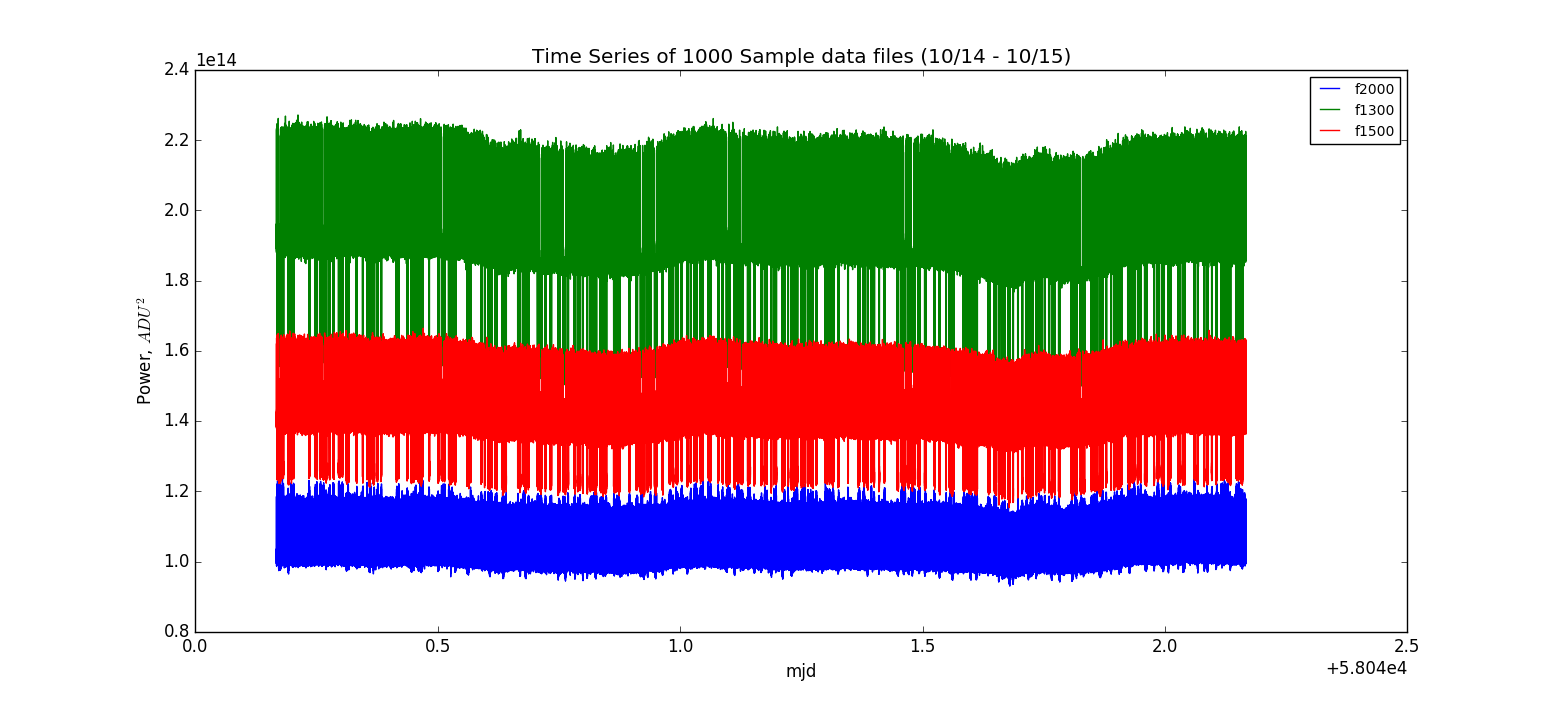
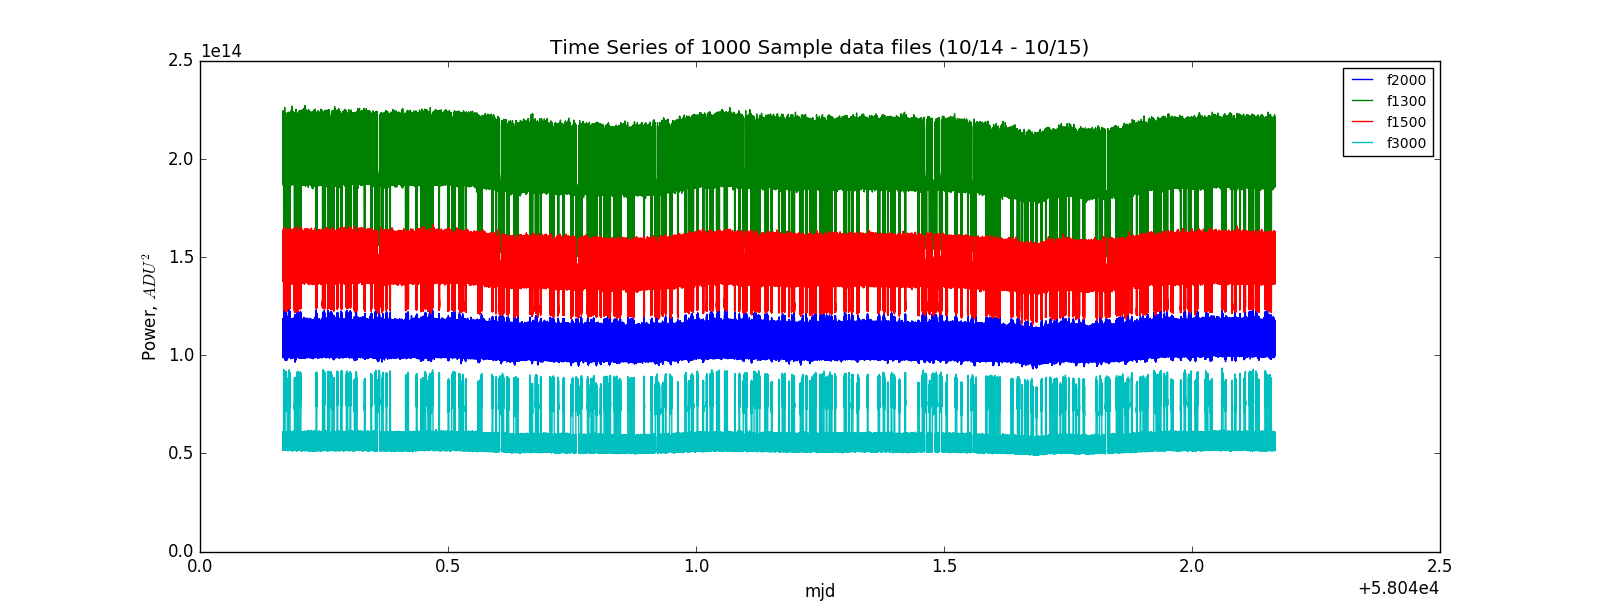
spectra added

diff --git a/logbook/postings/20171018_1000_Sample_Data/index.md b/logbook/postings/20171018_1000_Sample_Data/index.md
@@ -19,11 +19,16 @@ Noise Diode --> 23dB Atten. --> Low-Loss --> [Amp Chain] --> [Spectrometer]
 Analysis of these data files indicated slight variations in power were possible
 by restarting the daq, without changing any other parameters.
 
-### Time Series of these data:
+### Time Series:
 
 Here is a familiar style of plot of spectrometer power in a given frequency bin
-versus time. The frequency bins selected were f2000 = 1368.62MHz, and f1300 =
-1274.62MHz. Time here is specified in mjd, collected from the data files. 
+versus time. Time here is specified in mjd, collected from the data files. The
+chosen frequency bins are as follows:
+
+1) f1300 = 1274.62MHz
+2) f1500 = 1301.48MHz
+3) f2000 = 1368.62MHz 
+4) f3000 = 1502.89MHz
 
 ![timeseries](Time_Series_1014_1015.png)
 
@@ -38,34 +43,67 @@ file, so lets take a closer look at the first few data files:
 
 ![zoom](ZoomedTS.png)
 
-### Small-Scale Variations in f2000
+With the addition of the f1500 frequency bin, the correlations between files
+becomes very clear. The changes in background level in the f1300 and f1500 bins
+seem to correlate with changes in pulse height (and sometimes background level)
+in the f2000 bin. Stranger still, when we examine the f3000 bin, there is a
+strong anti-correlation to the power changes in the f1300 and f1500 bins...
 
-This plot shows the small-scale variations from the f2000 data, again from the
-beginning of the large data set shown in the first plot. It would be interesting
-to see what the spectra look like from one exposure to the next, when we witness
-the power level changing.
+This seems incredibly strange but the answer lies in the spectra.
 
-Here is the power variation in f2000, now presented with the index on the
-x-axis:
+### Impact of Power Change on Spectra:
 
-![f2000](index5000jump.png)
+Now we shall consider a region of the plot where a power change occurs from one
+file to the next. For each file I will plot the average spectrum with the diode
+off, and the average spectrum with the diode on.
 
-There is a noticable jump in power around index 5000, where the data switches
-from one file to the next. Lets examine the spectra from before and after the
-data acquisition was restarted:
+If we consider the files starting from around 0.03 on the MJD Axis, we can see a
+few power changes that will be good candidates for examining these changes.
+These correspond to the 16th through the 23rd file in our two days of data.
 
-The file before the power change is 171014_0009.data. (low background)
+The files in question are the files shown in the following time series plot,
+shown here in various colors representing each separate file, for f1300 bin:
 
-The file after the power change is 171014_0011.data. (high background)
+![candidate](TSswitching.png)
 
-We will look at the diode off and the diode on spectra for the two
-files:
+Looking at these time series curves, we can imagine the same two-state system we had
+initially suggested at the outset of these diode calibration tests. There
+appears to be a higher energy "loud state" and a lower energy "quiet state". The
+system is switching between the two for some reason.
 
-![B&A](RestartDAQChangeSpectra.png)
+When we examine what the spectra look like before and after these power
+switches, it is clear that the shape of the entire spectrum is changing! Here
+are plots of the average spectrum with the diode off, and the average spectrum
+with the diode on:
 
-There are slight changes in the spectrum between the two curves, but if we
-consider the region of the plot outside the band-pass (f~1500-1650MHz) there are
-power offsets that might indicate a change in spectrometer properties.
+![diodeoff](diodeoffspectrum.png)
+
+If you look closely, the blue, cyan, and purple spectra shown here all lie on
+essentially the same curve. The green, red, yellow, and black curves all follow
+the same line as well. And, these colors and files correpsond to the two
+different power levels observed in the time series plot!
+
+Comparing these two different spectral curves, it appears that there is a change
+in gain from one to another. (i.e. the slope of the spectrum is changing, when
+the system is in either the low or the high state. This is the reason for the
+correlation between power level changes in the f1500 bin relative to the f1300
+bin, and the anticorrelation between power changes in the f3000 bin relative to
+the f1300 bin.) This was essentially unobserved when only considering the f2000
+bin, because that appears to be the point where the changes are minimal, because
+it is near the common point of both spectra. That is also the reason why the
+f2000 and f1300 power changes appeared initially uncorrelated.
+
+We witness precisely the same bahavior in the diode on spectra:
+
+![diodeon](diodeonspectrum.png)
+
+Again, the same color curves are right on top of each other, in agreement with
+the previous plot. I think this is a good indication that the system is
+switching between two states, and the effects of this state change can be
+described by changes in two parameters:
+
+1) Gain
+2) Offset Power Level
 
 ### f2000 as Points not Lines
 
